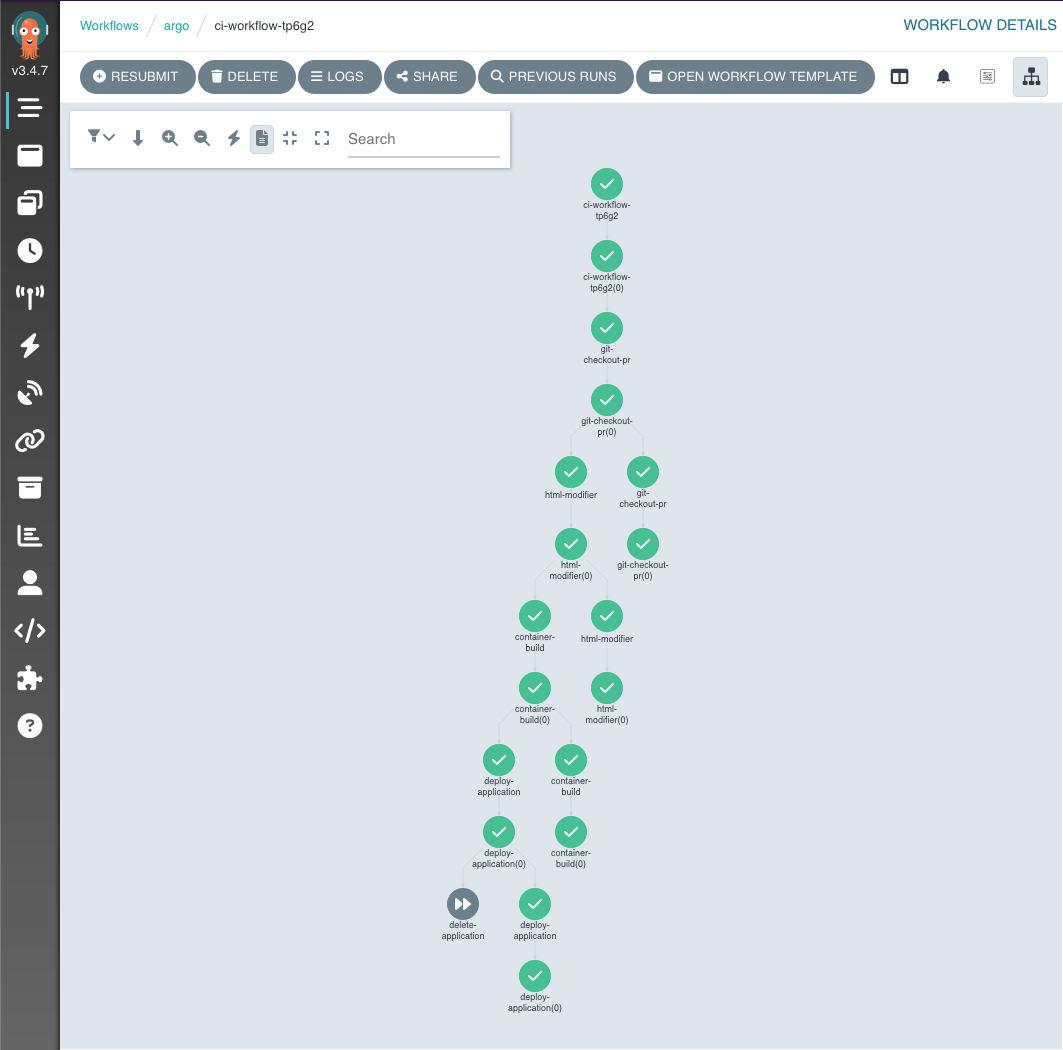
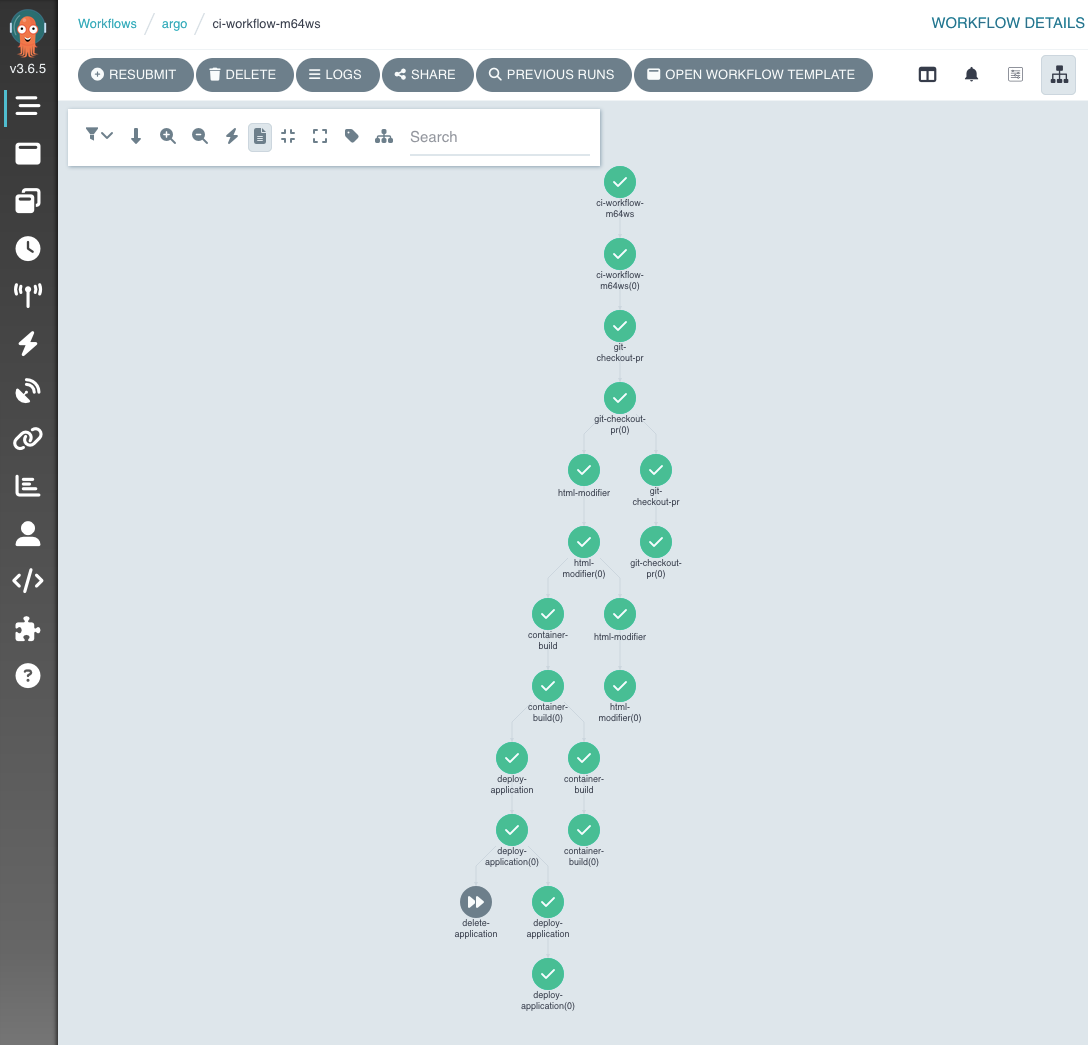
update workflow screenshot for v3.6

diff --git a/README.md b/README.md
@@ -228,7 +228,7 @@ spec:
 
 ## Mac Users
 Monterey (MacOS 12) and greater users might find that the k3d cluster doesn't start due to port 5000 being in use.
-Apple automatically enables the Airplay Receiver option in the Airdrop & Handoff menu of System Settings. You can either disable this, or change port 5000 in this repo to something else.
+Apple automatically enables the Airplay Receiver option in the Airdrop & Handoff menu of System Settings. This receiver uses port 5000. You can either disable this macOS feature, or change port 5000 in this repo to something else.
 
 ## Argo Workflows Support
 
